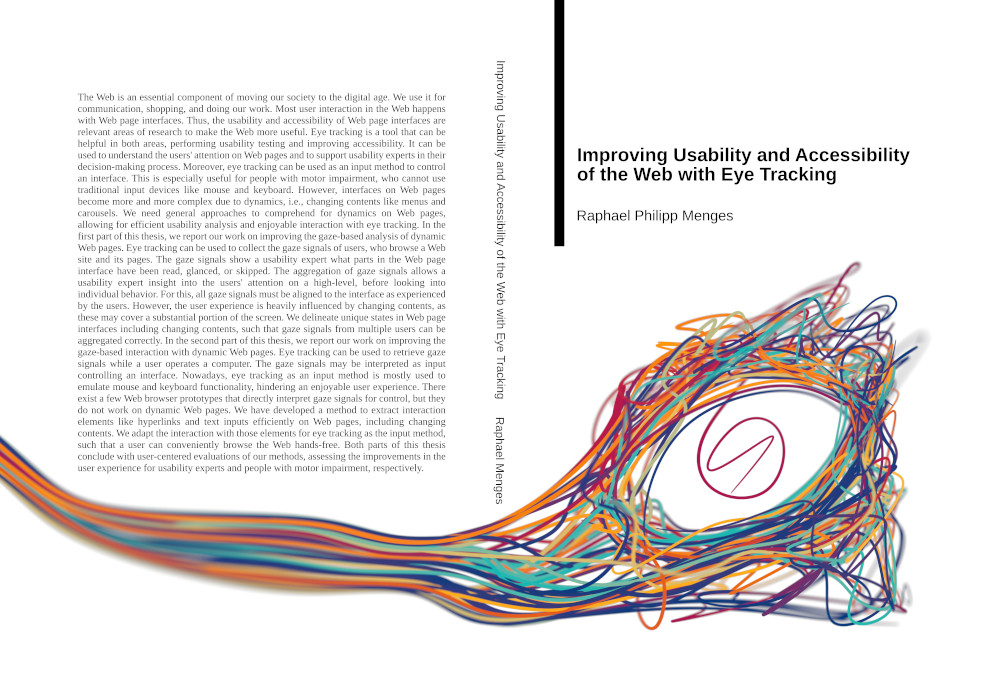
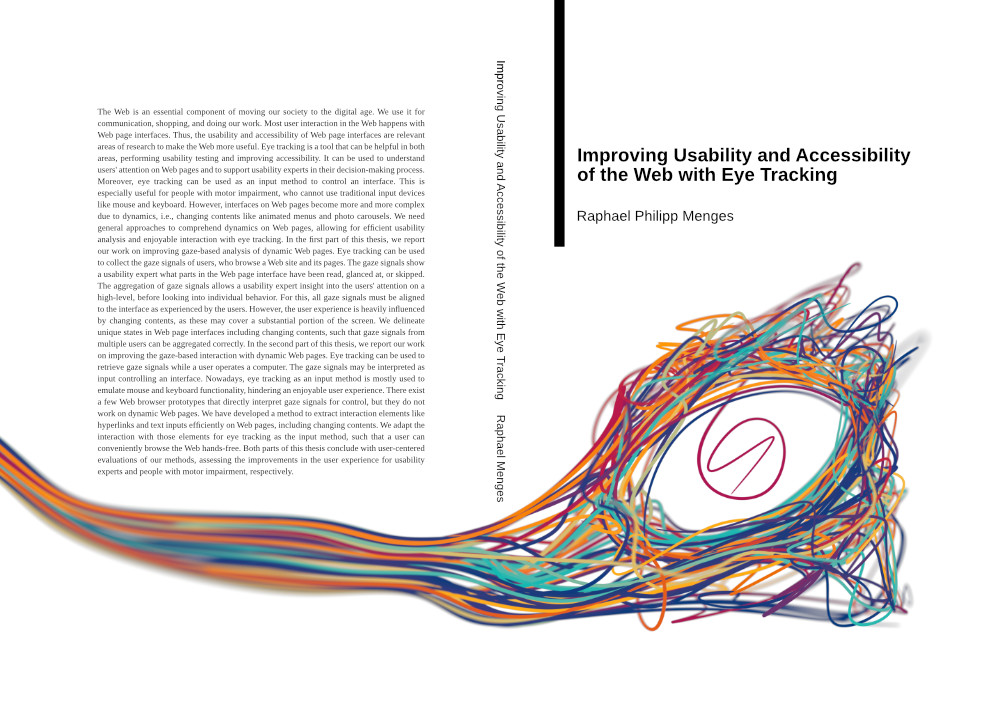
Update about phd thesis.

diff --git a/_includes/home/academia.html b/_includes/home/academia.html
@@ -9,7 +9,7 @@ My theses cover computer graphics, Web, and eye tracking.
 	<li>
 		<div><strong style='font-variant: small-caps'>PhD Student</strong>, University of Koblenz, Institute for Web Science and Technologies
 		<div class='title'>Improving Usability and Accessibility of the Web with Eye Tracking (under submission)</div>
-		<div class='abstract'>The Web is an essential component of moving our society to the digital age. We use it for communication, shopping, and doing our work. Most user interaction in the Web happens with Web page interfaces. Thus, the usability and accessibility of Web page interfaces are relevant areas of research to make the Web more useful. Eye tracking is a tool that can be helpful in both areas, performing usability testing and improving accessibility. It can be used to understand the users' attention on Web pages and to support usability experts in their decision-making process. Moreover, eye tracking can be used as an input method to control an interface. This is especially useful for people with motor impairment, who cannot use traditional input devices like mouse and keyboard. However, interfaces on Web pages become more and more complex due to dynamics, i.e., changing contents like menus and carousels. We need general approaches to comprehend for dynamics on Web pages, allowing for efficient usability analysis and enjoyable interaction with eye tracking. In the first part of this thesis, we report our work on improving the gaze-based analysis of dynamic Web pages. Eye tracking can be used to collect the gaze signals of users, who browse a Web site and its pages. The gaze signals show a usability expert what parts in the Web page interface have been read, glanced, or skipped. The aggregation of gaze signals allows a usability expert insight into the users' attention on a high-level, before looking into individual behavior. For this, all gaze signals must be aligned to the interface as experienced by the users. However, the user experience is heavily influenced by changing contents, as these may cover a substantial portion of the screen. We delineate unique states in Web page interfaces including changing contents, such that gaze signals from multiple users can be aggregated correctly. In the second part of this thesis, we report our work on improving the gaze-based interaction with dynamic Web pages. Eye tracking can be used to retrieve gaze signals while a user operates a computer. The gaze signals may be interpreted as input controlling an interface. Nowadays, eye tracking as an input method is mostly used to emulate mouse and keyboard functionality, hindering an enjoyable user experience. There exist a few Web browser prototypes that directly interpret gaze signals for control, but they do not work on dynamic Web pages. We have developed a method to extract interaction elements like hyperlinks and text inputs efficiently on Web pages, including changing contents. We adapt the interaction with those elements for eye tracking as the input method, such that a user can conveniently browse the Web hands-free. Both parts of this thesis conclude with user-centered evaluations of our methods, assessing the improvements in the user experience for usability experts and people with motor impairment, respectively.</div>
+		<div class='abstract'>The Web is an essential component of moving our society to the digital age. We use it for communication, shopping, and doing our work. Most user interaction in the Web happens with Web page interfaces. Thus, the usability and accessibility of Web page interfaces are relevant areas of research to make the Web more useful. Eye tracking is a tool that can be helpful in both areas, performing usability testing and improving accessibility. It can be used to understand users' attention on Web pages and to support usability experts in their decision-making process. Moreover, eye tracking can be used as an input method to control an interface. This is especially useful for people with motor impairment, who cannot use traditional input devices like mouse and keyboard. However, interfaces on Web pages become more and more complex due to dynamics, i.e., changing contents like animated menus and photo carousels. We need general approaches to comprehend dynamics on Web pages, allowing for efficient usability analysis and enjoyable interaction with eye tracking. In the first part of this thesis, we report our work on improving gaze-based analysis of dynamic Web pages. Eye tracking can be used to collect the gaze signals of users, who browse a Web site and its pages. The gaze signals show a usability expert what parts in the Web page interface have been read, glanced at, or skipped. The aggregation of gaze signals allows a usability expert insight into the users' attention on a high-level, before looking into individual behavior. For this, all gaze signals must be aligned to the interface as experienced by the users. However, the user experience is heavily influenced by changing contents, as these may cover a substantial portion of the screen. We delineate unique states in Web page interfaces including changing contents, such that gaze signals from multiple users can be aggregated correctly. In the second part of this thesis, we report our work on improving the gaze-based interaction with dynamic Web pages. Eye tracking can be used to retrieve gaze signals while a user operates a computer. The gaze signals may be interpreted as input controlling an interface. Nowadays, eye tracking as an input method is mostly used to emulate mouse and keyboard functionality, hindering an enjoyable user experience. There exist a few Web browser prototypes that directly interpret gaze signals for control, but they do not work on dynamic Web pages. We have developed a method to extract interaction elements like hyperlinks and text inputs efficiently on Web pages, including changing contents. We adapt the interaction with those elements for eye tracking as the input method, such that a user can conveniently browse the Web hands-free. Both parts of this thesis conclude with user-centered evaluations of our methods, assessing the improvements in the user experience for usability experts and people with motor impairment, respectively.</div>
 		{%- assign imgs = site.academia.phd.images -%}
 		{%- include render_images.html images=imgs -%}
 		<div class='note'>Supervisor: Prof. Dr. Steffen Staab</div>
